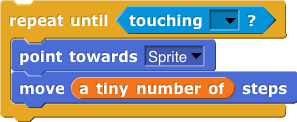
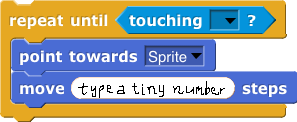
Unit 1 cleanup: labs 1, 2 only

Changed region(s): [[0.2121, 0.6148, 0.8182, 0.8115]]

diff --git a/cur/programming/1-introduction/2-drawing-communication/2-following-sprites.html b/cur/programming/1-introduction/2-drawing-communication/2-following-sprites.html
@@ -21,32 +21,30 @@
 				<li><div class="newProject"><span class="text">"U1L2-SpriteChase"</span><img src="/bjc-r/img/icons/new-project-called.png" alt="Create a new project called U1L2-SpriteChase" title="Create a new project called U1L2-SpriteChase" /></div></li>
                 <li>
                     Read and think about this script before you build it. What do you expect it to do?
-                    <div class="sidenoteBig"><img src="/bjc-r/img/blocks/mouse-x.png" class="inline" alt="Mouse X Reporter"/> and <img src="/bjc-r/img/blocks/mouse-y.png" class="inline" alt="Mouse Y Reporter"/> report the mouse's location on the stage. You can find them in the Sensing palette.</div> 
+                     
                     <p><img class="indent" src="/bjc-r/img/1-introduction/follow-that-mouse.png" alt="Follow That Mouse Script" title="Follow That Mouse Script" /></p>
+                    <div class="endnote"><img src="/bjc-r/img/blocks/mouse-x.png" class="inline" alt="Mouse X Reporter"/> and <img src="/bjc-r/img/blocks/mouse-y.png" class="inline" alt="Mouse Y Reporter"/> report the mouse's location on the stage. You can find them in the Sensing palette.</div>
                 </li>
                 <li>
-                	<div class="sidenote">To <em>stop</em> this script, click the red stop sign <img class="button" src="/bjc-r/img/1-introduction/stop_button.png" alt="stop button"/>. </div>
+                	
 					Now build the script and run it. Move your mouse around the stage while the program is running.
+                    <div class="endnote">To <em>stop</em> this script, click the red stop sign <img class="button" src="/bjc-r/img/1-introduction/stop_button.png" alt="stop button"/>. </div>
                 </li>
                 <li><img class="inline" src="/bjc-r/img/icons/talk-with-your-partner.png" alt="Talk with Your Partner" title="Talk with Your Partner" /> Does the program work the way you expected?</li>
-				<li>
-                	Create a second sprite that turns toward the first sprite.<a name="newTurtle" class="anchor">&nbsp;</a>Follow these instructions or watch the animation below.
-                    <ol>
-                        <li>Click on the "add a new Turtle sprite" button just below the stage: <img src="/bjc-r/img/1-introduction/add-a-new-turtle-sprite.png" alt="add a new turtle sprite" title="add a new turtle sprite" /></li>
-                        <div class="endnote">The new sprite appears on the stage, and a button to select it appears underneath the stage. This sprite is brand new so it has no scripts. You will need to drag in blocks to tell it what to do. If you want to see any sprite's scripts, click on its button below the stage. </div>
-                        <li>
-                        	Add a line of code to Sprite(2) to make it point towards Sprite.
-                        	<div class="todo">The project name in the animation doesn't match the name they're told to use.</div>
+				<div class="sidenote">The animation below shows how to create a new sprite and give it its own script.</div>
+                <li> Create a second sprite by clicking on the "add a new Turtle sprite" button just below the stage: <img src="/bjc-r/img/1-introduction/add-a-new-turtle-sprite.png" alt="add a new turtle sprite" title="add a new turtle sprite" />. <a name="newTurtle" class="anchor">&nbsp;</a> </li>
+                <div class="endnote">The new sprite, named Sprite(2), appears on the stage. It's brand new so it has no scripts.  The buttons beneath the stage let you select the sprite you want to program.</div>
+                <li>Give Sprite(2) its own script, one line of code that makes it point towards Sprite when the script is run.
+                  <div class="todo">The project name in the animation doesn't match the name they're told to use.</div>
                     		<img src="/bjc-r/img/1-introduction/newsprite-pointing-to-old-sprite-part1.gif" alt="getting a new sprite" title="getting a new sprite" />
                     	</li> 
-                    </ol> 
-                    
-				</li> 
+                   
+                   
                 
                 <img class="inline" src="/bjc-r/img/icons/pair-programming-swap.png" alt="Pair Programming Swap" title="Pair Programming Swap" /> 
 
 				<li> 
-                	Change your script for Sprite(2) so that once the green flag is clicked, it will point towards Sprite forever. Follow these instructions or watch the animation below. <br />
+                	Change your script for Sprite(2) so that once the green flag is clicked, Sprite(2) will point towards Sprite forever.  <br />
 					<!--<pre>
 	when started
 	forever 
@@ -55,13 +53,13 @@
 	  }</pre>-->
 	                <img src="/bjc-r/img/1-introduction/newsprite-pointing-to-old-sprite-part2.gif" alt="pointing towards Sprite forever" title="pointing towards Sprite forever" />
                 </li>
-                <div class="endnote">While a script is running, its border is highlighted. Some scripts run so quickly that you may not notice the brief border flash. This script runs forever, so it's easier to notice the highlighted border.</div>
+                <div class="endnote">While a script is running, its border lights up. If the running time is short, you may not notice the brief flash. </div>
                 <li>
-                    <img class="inline" src="/bjc-r/img/icons/talk-with-your-partner.png" alt="Talk with Your Partner" title="Talk with Your Partner" /> Click <img src="/bjc-r/img/1-introduction/green-flag_button.png" style="height:1.6em;" alt="green-flag button"/> and check that your script does what you had intended it to:
+                    <img class="inline" src="/bjc-r/img/icons/talk-with-your-partner.png" alt="Talk with Your Partner" title="Talk with Your Partner" /> Click <img src="/bjc-r/img/1-introduction/green-flag_button.png" style="height:1.6em;" alt="green-flag button"/> and check that your script does what you intended:
                         <ul> 
-		                	<div class="sidenoteBig">Both sprites' scripts start with <code>When<img src="/bjc-r/img/1-introduction/green-flag_button.png" style="height:1.6em;" alt="green-flag button"/>clicked</code>. So, when <img src="/bjc-r/img/1-introduction/green-flag_button.png" style="height:1.6em;" alt="green-flag button"/> is clicked, <em>both</em> sprites' scripts run.</div>
-                            <li>Sprite always follows your mouse around the stage.</li>
-                            <li>Sprite(2) stays in the same place, but always points toward Sprite.</li>
+		                	<div class="sidenoteBig">Both sprites' scripts use <code>When<img src="/bjc-r/img/1-introduction/green-flag_button.png" style="height:1.6em;" alt="green-flag button"/>clicked</code>, <em>both</em> scripts run when <img src="/bjc-r/img/1-introduction/green-flag_button.png" style="height:1.6em;" alt="green-flag button"/> is clicked.</div>
+                            <li>Sprite always follows your mouse.</li>
+                            <li>Sprite(2) stays in one place, but always points toward Sprite.</li>
                         </ul>
 				</li>
 			</ol>

diff --git a/cur/programming/1-introduction/2-drawing-communication/3-sprite-interaction.html b/cur/programming/1-introduction/2-drawing-communication/3-sprite-interaction.html
@@ -17,41 +17,26 @@
 		<div class="forYouToDo" id="first">
             <ol>
 				<li>
-                    Change Sprite(2)'s code to point towards Sprite only until it is touching Sprite.  Follow these instructions or watch the animation below:
-                    <ol>
-                        <li>Click the Sprite(2) button below the stage.</li>
+                    Change Sprite(2)'s code to point towards Sprite only until it is touching Sprite. The instructions and animation show how.
+                      <ol>
+                    <li>Select Sprite(2) by clicking its button below the stage.</li>
                         <li>Replace the <code>forever</code> block with a <code>repeat until</code> block.</li>
                         <li>
-                            Drag a <img src="/bjc-r/img/blocks/touching.png"  alt="touching sprite"> block into the hexagonal space in the <code>repeat until</code> block, and set it to repeat until it is touching Sprite.<br />
+                        Drag <img src="/bjc-r/img/blocks/touching.png"  alt="touching sprite">  into the hexagonal space in the <code>repeat until</code> block. Set it to repeat until it is touching Sprite.<br />
                             <img class="inline" src="/bjc-r/img/1-introduction/replacing-code.gif" alt="Replacing code" title="Replacing code" />
                         </li>
                     </ol>                        
                 </li>
-				<li>Change Sprite's code to follow your mouse only until it is <code>touching Sprite(2)</code>.</li>
+				<li>Do the same for  Sprite. Change its code to follow your mouse only until it is <code>touching Sprite(2)</code>.</li>
                 <li> Try out your program. </li>
-				<div class="endnote">When you click <img src="/bjc-r/img/1-introduction/green-flag_button.png" style="height:1.6em;" alt="green-flag button"/>, Sprite (the gray one) should follow your mouse and Sprite(2) should keep turning to face Sprite. But once you bring Sprite close enough for the two to touch, both sprites should stop moving.</div>
+				<div class="endnote">When you click <img src="/bjc-r/img/1-introduction/green-flag_button.png" style="height:1.6em;" alt="green-flag button"/>, Sprite (the gray one) should follow your mouse and Sprite(2) should keep turning to face Sprite. If you bring Sprite close enough  to touch Sprite(2), both sprites should stop moving.</div>
                 <li>
-                	Sprite(2) <em>points toward</em> Sprite, but doesn't <em>move</em> toward it.  Add a line of code so that Sprite(2) chases Sprite. Here's the idea:<br />
-					<div class="sidenoteBig">You may want each "tiny number" to be even less than 1 step so that Sprite(2) doesn't catch Sprite too quickly.</div>
+                	Sprite(2) <em>points </em>toward Sprite, but doesn't <em>move</em> toward it.  Add a line of code so that Sprite(2) chases Sprite. Here's the idea:<br />
+					<div class="sidenoteBig">You may want your "tiny number" to be even less than 1 step so that Sprite(2) doesn't catch Sprite too quickly.</div>
 <img src="/bjc-r/img/1-introduction/move-tiny.png" alt="repeat until touching, point toward sprite, move a tiny amount">
 
 <!--					<div class="takeNote">This kind of written-out code is often called "pseudo-code." It isn't precisely what your code would look like in <em>any</em> programming language, but it makes the logical steps clear. There are no special "rules" for writing pseudo-code. You may use your own style as long as you specify the logical steps clearly.</div> --></li>
-				<div class="todo">
-                    <h4>"Tiny number of steps" issue:</h4>
-                    <ul>
-                        <li>GH Feedback 9/8: Having a variable called "a tiny number" (and similar variables elsewhere in the lessons) can confuse students. I understand the intent (I think), and it is a quick lesson to help them understand, but this lesson is about REPEAT UNTIL and putting the number 1 in the input slot would be less confusing.</li>
-                        <li>GH Feedback 9/20/15: You ask the students to create a variable "a tiny number of" before they know how to create variables!</li>
-                        <li>GH Feedback 9/21/15: what do you mean "a tiny # of" This is confusing.</li>
-                        <li>GH Feedback 9/22/15: Are students expected to create a variable "tiny number of steps"?</li>
-                        <li>From Brian: Those teachers are confused.  There is no intent for students to make a variable; that block is there as documentation of an idea. I think probably their problem would be solved if you made the "a tiny number of" block grey (Other) instead of orange (Variables). The teachers who want us just to say 1 there are less confused, but didn't read the sidenote.</li>
-                        <li>GH Feedback 9/24/15: did we introduce variables yet? Is that how we are supposed to make "a tiny number of"?</li>
-                        <li>GH Feedback 9/27/15: Item 4. The move "a tiny number of" steps threw the kids off. They were looking for a block with that name. The instructions aren't clear that is just a blank placeholder in which they are supposed to substitute a value.</li>
-                        <li>
-                            GH Feedback 10/6/15: The "a tiny number of " variable block is confusing.<br />
-                            Especially since they do not know how to use variables yet.
-                        </li>
-                    </ul>
-                </div>
+				
                 
 				<li>Test your program a few times. </li>
             	<img class="inline" src="/bjc-r/img/icons/pair-programming-swap.png" alt="Pair Programming Swap" title="Pair Programming Swap" />
@@ -65,7 +50,7 @@
                     <img class="inline" src="/bjc-r/img/1-introduction/simpledialogue-going-to-lunch.png" alt="Simple dialogue about going to lunch" title="Simple dialogue about going to lunch" /> 
 				</li>
 			</ol>
-	</div>
+</div>
         
 		<img class="inline" src="/bjc-r/img/icons/save-now.png" alt="Now Is a Good Time to Save" title="Now Is a Good Time to Save" />
 

diff --git a/cur/programming/1-introduction/2-drawing-communication/1-exploring-snap-drawing-motion.html b/cur/programming/1-introduction/2-drawing-communication/1-exploring-snap-drawing-motion.html
@@ -7,7 +7,7 @@
 	</head>
     
 	<body>
-		<h2>Exploring <span class="snap">snap</span> Drawing and Motion</h2>
+		<h2>Drawing and Motion</h2>
         <div class="todo">
         	<ul>
                 <li>GH Feedback 9/2/15: I suggest adding something like: "if you make a design that you'd like to save, save it as ***".</li>
@@ -15,9 +15,8 @@
         </div>
         
         <p><img src="/bjc-r/img/icons/work-with-a-partner.png" alt="Work with a Partner" title="Work with a Partner" /></p>
-		<p>You have already programmed an app in the <span class="snap">snap</span> programming language. </p>
-        <p>A <strong>program</strong> is a set of <strong>scripts</strong> that tell a computer what to do. A script is an ordered (top to bottom) sequence of instructions. In <span class="snap">snap</span>, you program by dragging blocks (individual instructions) and snapping them together into scripts. </p>
-		<p>Now, you will experiment with some more blocks that <span class="snap">snap</span> provides to learn what they do. Soon, you will create your own blocks of code&mdash;blocks that <span class="snap">snap</span> doesn't have.</p>
+		<p> A script is a sequence of instructions—an <strong>algorithm</strong>—that tells a computer what to do. A <strong>program</strong> is a set of <strong>scripts</strong>. In some programming languages, like <span class="snap">snap</span>, you program by dragging blocks (individual instructions) and snapping them together into scripts. In other languages, you type  instructions to create scripts. The idea is the same.</p>
+<p>For now, you're using blocks that come with <span class="snap">snap</span>, built in. Soon, you'll invent and create your own blocks, blocks that <span class="snap">snap</span> does not provide.</p>
 
         
 		<div class="forYouToDo" id="first">
@@ -50,19 +49,22 @@
                         <li>Change the number in the <img class="inline" src="/bjc-r/img/1-introduction/turn-right-90.png" alt="turn right 90 degrees" title="turn right 90 degrees"> block and run the script again... and again... and again?</li>
 						<li>Change the number in the <img class="inline" src="/bjc-r/img/1-introduction/repeat-4.png" alt="repeat 4" title="repeat 4" /> block?</li>
 						<li> Use <span class="center"><img class="inline" src="/bjc-r/img/blocks/set-pen-size-to-1.png" alt="set pen size to 1" title="set pen size to 1" /></span> to set  the pen size to something like 4 or 10 or 50? </li>
-                        <div class="endnote">To change the pen size you must <em>click</em> the <code>set pen size</code> block after you've entered the number you want.</div>
+						<div class="endnote">To change the pen size you must <em>click</em> the <code>set pen size</code> block after you've entered the number you want.</div>
+                        <li>Drag the sprite to a new location?</li>
+                        <li>Move the sprite by clicking on <img class="inline" src="/bjc-r/img/1-introduction/move-50.png" alt="move 50 steps" title="move 50 steps">?</li>
+                        <li>Click <img class="inline" src="/bjc-r/img/blocks/go-to-x-y-0-0.png" alt="go to x 0 y 0" title="go to x 0 y 0" />? (This can get your sprite back when it runs off the screen.)</li>
                  	</ol>
                 </li>
 			</ol>
-        </div>
+    </div>
                
         <div class="takeItFurther"><a name="further" class="anchor">&nbsp;</a>
 			<ol type="A">
             	<li>
-					<strong>Experiment more!</strong> Invent some design of your own. Below are other blocks that you may find useful. Find them by color, and click on them to see what they do. 
+					<strong>Experiment more!</strong> Invent a design of your own. Below are other blocks that you may find useful. Find them by color, and click on them to see what they do. 
 					<p class="center">
-						<img class="inline" src="/bjc-r/img/blocks/go-to-x-y-0-0.png" alt="go to x 0 y 0" title="go to x 0 y 0" />
-						<img class="inline" src="/bjc-r/img/blocks/point-in-direction-90.png" alt="point in direction 90" title="point in direction 90" /> 
+						
+					  <img class="inline" src="/bjc-r/img/blocks/point-in-direction-90.png" alt="point in direction 90" title="point in direction 90" /> 
 					<img class="inline" src="/bjc-r/img/blocks/set-pen-color-to.png" alt="set pen color dark red" title="set pen color dark red" /></p>
 				</li>
                 <img class="inline" src="/bjc-r/img/icons/pair-programming-swap.png" alt="Pair Programming Swap" title="Pair Programming Swap" />

diff --git a/cur/programming/1-introduction/4-building-and-debugging/1-custom-blocks.html b/cur/programming/1-introduction/4-building-and-debugging/1-custom-blocks.html
@@ -3,7 +3,7 @@
     <head>
 		<meta http-equiv="content-type" content="text/html; charset=utf-8" />
         <script type="text/javascript" src="/bjc-r/llab/loader.js"></script>
-        <title>Unit 1 Lab 4: Building and Debugging Your Own Blocks, Page 1</title>
+        <title>Unit 1 Lab 3: Building and Debugging Your Own Blocks, Page 1</title>
     </head>
     
     <body>

diff --git a/cur/programming/1-introduction/4-building-and-debugging/4-building-blocks-within-blocks.html b/cur/programming/1-introduction/4-building-and-debugging/4-building-blocks-within-blocks.html
@@ -3,7 +3,7 @@
     <head>
 		<meta http-equiv="content-type" content="text/html; charset=utf-8" />
         <script type="text/javascript" src="/bjc-r/llab/loader.js"></script>
-        <title>Unit 1 Lab 4: Building and Debugging Your Own Blocks, Page 4</title>
+        <title>Unit 1 Lab 3: Building and Debugging Your Own Blocks, Page 4</title>
     </head>
     
     <body>

diff --git a/cur/programming/1-introduction/4-building-and-debugging/5-debugging-blocks-within-blocks.html b/cur/programming/1-introduction/4-building-and-debugging/5-debugging-blocks-within-blocks.html
@@ -3,7 +3,7 @@
     <head>
 		<meta http-equiv="content-type" content="text/html; charset=utf-8" />
         <script type="text/javascript" src="/bjc-r/llab/loader.js"></script>
-        <title>Unit 1 Lab 4: Building and Debugging Your Own Blocks, Page 5</title>
+        <title>Unit 1 Lab 3: Building and Debugging Your Own Blocks, Page 5</title>
     </head>
     
     <body>

diff --git a/cur/programming/1-introduction/4-building-and-debugging/2-adding-an-input.html b/cur/programming/1-introduction/4-building-and-debugging/2-adding-an-input.html
@@ -3,7 +3,7 @@
     <head>
 		<meta http-equiv="content-type" content="text/html; charset=utf-8" />
         <script type="text/javascript" src="/bjc-r/llab/loader.js"></script>
-        <title>Unit 1 Lab 4: Building and Debugging Your Own Blocks, Page 2</title>
+        <title>Unit 1 Lab 3: Building and Debugging Your Own Blocks, Page 2</title>
     </head>
 
     <body>

diff --git a/cur/programming/1-introduction/4-building-and-debugging/3-debugging-custom-blocks.html b/cur/programming/1-introduction/4-building-and-debugging/3-debugging-custom-blocks.html
@@ -3,7 +3,7 @@
     <head>
 		<meta http-equiv="content-type" content="text/html; charset=utf-8" />
         <script type="text/javascript" src="/bjc-r/llab/loader.js"></script>
-        <title>Unit 1 Lab 4: Building and Debugging Your Own Blocks, Page 3</title>
+        <title>Unit 1 Lab 3: Building and Debugging Your Own Blocks, Page 3</title>
     </head>
 
     <body>
